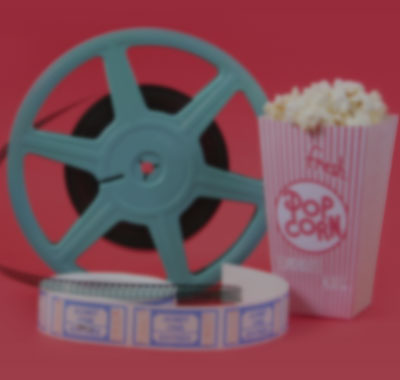
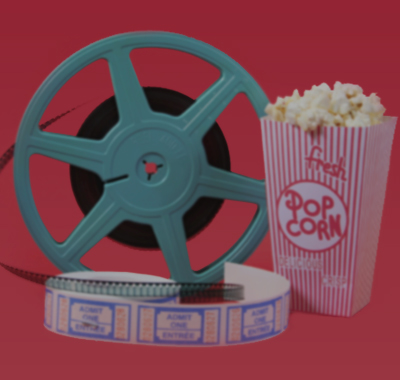
Adding new campaign images to national home page and new hero/promo images for sub pages

diff --git a/app/assets/stylesheets/partials/layout/_national.scss b/app/assets/stylesheets/partials/layout/_national.scss
@@ -224,15 +224,15 @@
     /* Hero image paths (see 'Image rotate' module) */
     .national__hero__1 {
       @include respond-max($palm) {
-        background-image: cloudinary-url("heroes/national/national-hero-01-sml.jpg");
+        background-image: cloudinary-url("heroes/national/national-hero-01-sml.jpg", $quality: 95);
       }
 
       @include respond-range($lap, $lap-sml-end) {
-        background-image: cloudinary-url("heroes/national/national-hero-01-med.jpg", $quality: 80);
+        background-image: cloudinary-url("heroes/national/national-hero-01-med.jpg", $quality: 95);
       }
 
       @include respond-min($lap-lrg) {
-        background-image: cloudinary-url("heroes/national/national-hero-01-lrg.jpg", $quality: 60);
+        background-image: cloudinary-url("heroes/national/national-hero-01-lrg.jpg", $quality: 95);
       }
     }
 
